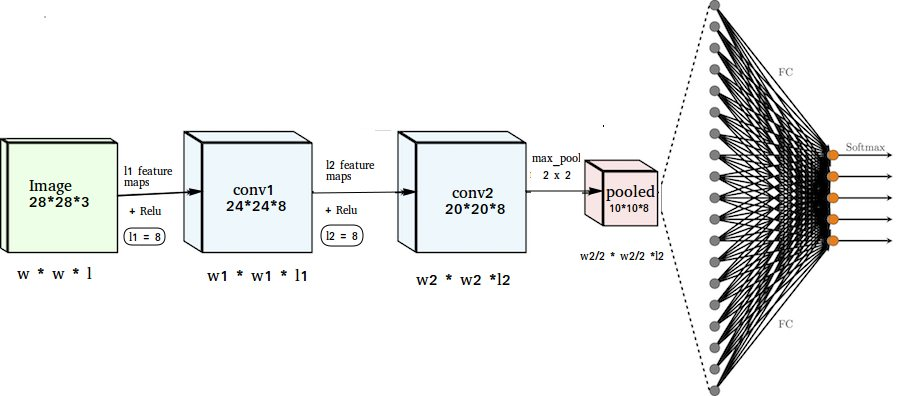
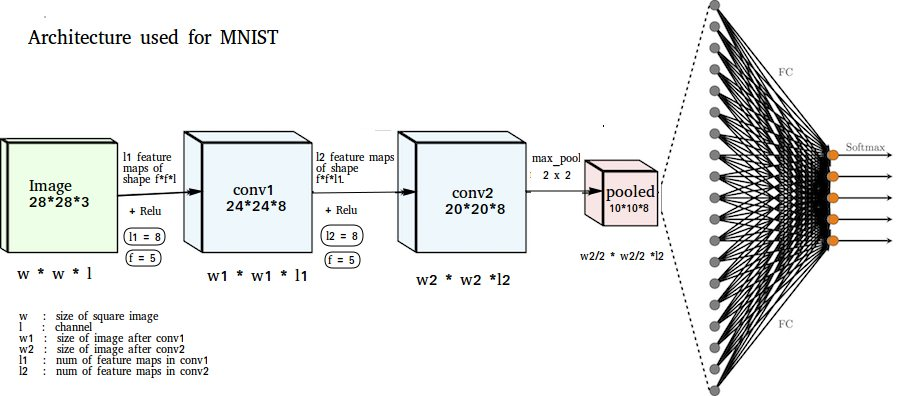
archi changes

diff --git a/MNIST/convnet.py b/MNIST/convnet.py
@@ -253,6 +253,14 @@ def momentumGradDescent(batch, LEARNING_RATE, w, l, MU, filt1, filt2, bias1, bia
 
 ## Predict class of each row of matrix X
 def predict(image, filt1, filt2, bias1, bias2, theta3, bias3):
+	
+	## l - channel
+	## w - size of square image
+	## l1 - No. of filters in Conv1
+	## l2 - No. of filters in Conv2
+	## w1 - size of image after conv1
+	## w2 - size of image after conv2
+
 	(l,w,w)=image.shape
 	(l1,f,f) = filt2[0].shape
 	l2 = len(filt2)
